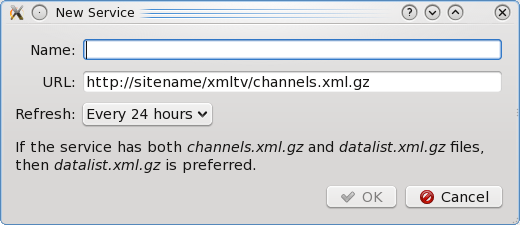
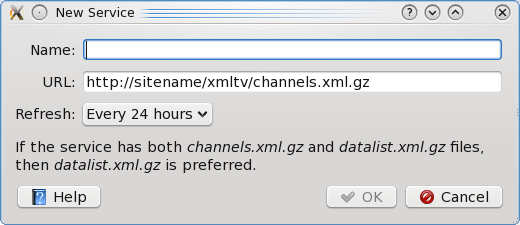
Add context-sensitive help to the dialogs.

Changed region(s): [[0.0308, 0.8089, 0.2154, 0.9333]]

diff --git a/src/bookmarkitemeditor.cpp b/src/bookmarkitemeditor.cpp
@@ -18,6 +18,7 @@
 #include "bookmarkitemeditor.h"
 #include "tvchannellist.h"
 #include "dayselectiondialog.h"
+#include "helpbrowser.h"
 #include <QtGui/qcolordialog.h>
 #include <QtGui/qpixmap.h>
 #include <QtGui/qicon.h>
@@ -28,6 +29,8 @@ BookmarkItemEditor::BookmarkItemEditor(TvChannelList *channelList, QWidget *pare
     , m_extraItem(-1)
 {
     setupUi(this);
+
+    setWindowModality(Qt::WindowModal);
 
     dayOfWeekCombo->setCurrentIndex(0);
     dayOfWeekCombo->setItemData(TvBookmark::AnyDay, 0xFE);
@@ -57,6 +60,7 @@ BookmarkItemEditor::BookmarkItemEditor(TvChannelList *channelList, QWidget *pare
     connect(otherDay, SIGNAL(clicked()), this, SLOT(selectOtherDay()));
     connect(buttonBox, SIGNAL(accepted()), this, SLOT(accept()));
     connect(buttonBox, SIGNAL(rejected()), this, SLOT(reject()));
+    connect(buttonBox, SIGNAL(helpRequested()), this, SLOT(help()));
     connect(titleEdit, SIGNAL(textChanged(QString)), this, SLOT(titleChanged(QString)));
 
     buttonBox->button(QDialogButtonBox::Ok)->setEnabled(false);
@@ -168,4 +172,9 @@ void BookmarkItemEditor::selectOtherDay()
         }
         setDayOfWeek(TvBookmark::Mask, mask);
     }
+}
+
+void BookmarkItemEditor::help()
+{
+    HelpBrowser::showContextHelp(QLatin1String("bookmarks.html"), this);
 }

diff --git a/src/bookmarklisteditor.cpp b/src/bookmarklisteditor.cpp
@@ -18,6 +18,7 @@
 #include "bookmarklisteditor.h"
 #include "bookmarkitemeditor.h"
 #include "tvchannellist.h"
+#include "helpbrowser.h"
 #include <QtCore/qdebug.h>
 #include <QtGui/qapplication.h>
 #include <QtGui/qstyle.h>
@@ -28,6 +29,9 @@ BookmarkListEditor::BookmarkListEditor(TvChannelList *channelList, QWidget *pare
     , m_channelList(channelList)
 {
     setupUi(this);
+
+    setWindowModality(Qt::WindowModal);
+
     m_model = new TvBookmarkModel(channelList, this);
     bookmarkView->setModel(m_model);
     bookmarkView->verticalHeader()->hide();
@@ -56,6 +60,8 @@ BookmarkListEditor::BookmarkListEditor(TvChannelList *channelList, QWidget *pare
     QStyleOptionButton opt;
     QSize size = style->sizeFromContents(QStyle::CT_CheckBox, &opt, QSize(3, 1), bookmarkView);
     bookmarkView->setColumnWidth(0, size.width());
+
+    connect(buttonBox, SIGNAL(helpRequested()), this, SLOT(help()));
 }
 
 BookmarkListEditor::~BookmarkListEditor()
@@ -134,4 +140,9 @@ void BookmarkListEditor::currentChanged(const QModelIndex &index)
         editButton->setEnabled(false);
         deleteButton->setEnabled(false);
     }
+}
+
+void BookmarkListEditor::help()
+{
+    HelpBrowser::showContextHelp(QLatin1String("bookmarks.html"), this);
 }

diff --git a/src/channeleditor.cpp b/src/channeleditor.cpp
@@ -17,6 +17,7 @@
 
 #include "channeleditor.h"
 #include "tvchannellist.h"
+#include "helpbrowser.h"
 #include <QtGui/qfiledialog.h>
 #include <QtCore/qfile.h>
 #include <QtCore/qxmlstream.h>
@@ -27,6 +28,8 @@ ChannelEditor::ChannelEditor(TvChannelList *channelList, QWidget *parent)
     , m_channelList(channelList)
 {
     setupUi(this);
+
+    setWindowModality(Qt::WindowModal);
 
     activeChannels->setSortingEnabled(true);
     inactiveChannels->setSortingEnabled(true);
@@ -62,6 +65,7 @@ ChannelEditor::ChannelEditor(TvChannelList *channelList, QWidget *parent)
 
     connect(buttonBox, SIGNAL(accepted()), this, SLOT(accept()));
     connect(buttonBox, SIGNAL(rejected()), this, SLOT(reject()));
+    connect(buttonBox, SIGNAL(helpRequested()), this, SLOT(help()));
 
     connect(makeInactive, SIGNAL(clicked()), this, SLOT(moveToInactive()));
     connect(makeActive, SIGNAL(clicked()), this, SLOT(moveToActive()));
@@ -354,4 +358,9 @@ bool ChannelEditor::channelInRegion(const Region *cregion, const Region *region)
         region = region->parent;
     }
     return false;
+}
+
+void ChannelEditor::help()
+{
+    HelpBrowser::showContextHelp(QLatin1String("edit_channels.html"), this);
 }

diff --git a/src/serviceselector.cpp b/src/serviceselector.cpp
@@ -17,6 +17,7 @@
 
 #include "serviceselector.h"
 #include "serviceeditor.h"
+#include "helpbrowser.h"
 #include <QtCore/qsettings.h>
 
 #define ROLE_SERVICE_ID         Qt::UserRole
@@ -28,12 +29,16 @@ ServiceSelector::ServiceSelector(QWidget *parent)
 {
     setupUi(this);
 
+    setWindowModality(Qt::WindowModal);
+
     connect(serviceList, SIGNAL(itemSelectionChanged()),
             this, SLOT(selectionChanged()));
 
     connect(editButton, SIGNAL(clicked()), this, SLOT(editService()));
     connect(deleteButton, SIGNAL(clicked()), this, SLOT(deleteService()));
     connect(newButton, SIGNAL(clicked()), this, SLOT(newService()));
+
+    connect(buttonBox, SIGNAL(helpRequested()), this, SLOT(help()));
 
     editButton->setEnabled(false);
     deleteButton->setEnabled(false);
@@ -197,4 +202,9 @@ bool ServiceSelector::hasServiceId(const QString &id) const
             return true;
     }
     return false;
+}
+
+void ServiceSelector::help()
+{
+    HelpBrowser::showContextHelp(QLatin1String("select_guide.html"), this);
 }

diff --git a/src/serviceeditor.cpp b/src/serviceeditor.cpp
@@ -16,6 +16,7 @@
  */
 
 #include "serviceeditor.h"
+#include "helpbrowser.h"
 #include <QtGui/qpushbutton.h>
 
 ServiceEditor::ServiceEditor(QWidget *parent)
@@ -23,10 +24,13 @@ ServiceEditor::ServiceEditor(QWidget *parent)
 {
     setupUi(this);
 
+    setWindowModality(Qt::WindowModal);
+
     connect(serviceName, SIGNAL(textChanged(QString)), this, SLOT(textChanged()));
     connect(serviceUrl, SIGNAL(textChanged(QString)), this, SLOT(textChanged()));
 
     buttonBox->button(QDialogButtonBox::Ok)->setEnabled(false);
+    connect(buttonBox, SIGNAL(helpRequested()), this, SLOT(help()));
 }
 
 ServiceEditor::~ServiceEditor()
@@ -64,4 +68,9 @@ void ServiceEditor::textChanged()
     buttonBox->button(QDialogButtonBox::Ok)->setEnabled
         (!serviceName->text().isEmpty() &&
          !serviceUrl->text().isEmpty());
+}
+
+void ServiceEditor::help()
+{
+    HelpBrowser::showContextHelp(QLatin1String("select_guide.html"), this);
 }

diff --git a/src/websearchdialog.cpp b/src/websearchdialog.cpp
@@ -16,6 +16,7 @@
  */
 
 #include "websearchdialog.h"
+#include "helpbrowser.h"
 #include <QtGui/qpushbutton.h>
 
 WebSearchDialog::WebSearchDialog(QWidget *parent)
@@ -23,9 +24,12 @@ WebSearchDialog::WebSearchDialog(QWidget *parent)
 {
     setupUi(this);
 
+    setWindowModality(Qt::WindowModal);
+
     connect(titleEdit, SIGNAL(textChanged(QString)), this, SLOT(titleChanged(QString)));
 
     buttonBox->button(QDialogButtonBox::Ok)->setEnabled(false);
+    connect(buttonBox, SIGNAL(helpRequested()), this, SLOT(help()));
 }
 
 WebSearchDialog::~WebSearchDialog()
@@ -49,4 +53,9 @@ QUrl WebSearchDialog::url() const
 void WebSearchDialog::titleChanged(const QString &text)
 {
     buttonBox->button(QDialogButtonBox::Ok)->setEnabled(!text.isEmpty());
+}
+
+void WebSearchDialog::help()
+{
+    HelpBrowser::showContextHelp(QLatin1String("searching.html"), this);
 }

diff --git a/src/helpbrowser.cpp b/src/helpbrowser.cpp
@@ -16,6 +16,7 @@
  */
 
 #include "helpbrowser.h"
+#include "mainwindow.h"
 #include <QtCore/qdebug.h>
 #include <QtGui/qevent.h>
 
@@ -63,4 +64,23 @@ void HelpBrowser::keyPressEvent(QKeyEvent *event)
 void HelpBrowser::sourceChanged(const QUrl &)
 {
     setWindowTitle(textBrowser->documentTitle());
+}
+
+void HelpBrowser::setContextHelp(const QString &name)
+{
+    QUrl url(QLatin1String("qrc:/help/en/") + name);
+    textBrowser->setSource(url);
+}
+
+void HelpBrowser::showContextHelp(const QString &name, QWidget *widget)
+{
+    MainWindow *mw = 0;
+    while (widget != 0) {
+        mw = qobject_cast<MainWindow *>(widget);
+        if (mw)
+            break;
+        widget = widget->parentWidget();
+    }
+    if (mw)
+        mw->showContextHelp(name);
 }

diff --git a/src/helpbrowser.h b/src/helpbrowser.h
@@ -28,6 +28,10 @@ public:
     explicit HelpBrowser(QWidget *parent = 0);
     ~HelpBrowser();
 
+    void setContextHelp(const QString &name);
+
+    static void showContextHelp(const QString &name, QWidget *widget);
+
 protected:
     void keyPressEvent(QKeyEvent *event);
 

diff --git a/src/mainwindow.cpp b/src/mainwindow.cpp
@@ -455,6 +455,12 @@ void MainWindow::refineChannels()
         editChannels();
 }
 
+void MainWindow::showContextHelp(const QString &name)
+{
+    help();
+    m_helpBrowser->setContextHelp(name);
+}
+
 void MainWindow::help()
 {
     if (m_helpBrowser) {

diff --git a/src/mainwindow.h b/src/mainwindow.h
@@ -34,6 +34,8 @@ public:
     explicit MainWindow(QWidget *parent = 0);
     ~MainWindow();
 
+    void showContextHelp(const QString &name);
+
 private Q_SLOTS:
     void busyChanged(bool value);
     void progressChanged(qreal progress);

diff --git a/src/channeleditor.h b/src/channeleditor.h
@@ -48,6 +48,7 @@ private Q_SLOTS:
     void itemDoubleClicked(QListWidgetItem *item);
     void largeIconsChanged(bool value);
     void regionChanged(int index);
+    void help();
 
 private:
     struct Region

diff --git a/src/bookmarklisteditor.h b/src/bookmarklisteditor.h
@@ -39,6 +39,7 @@ private Q_SLOTS:
     void deleteBookmark();
     void newBookmark();
     void currentChanged(const QModelIndex &index);
+    void help();
 
 private:
     TvChannelList *m_channelList;
